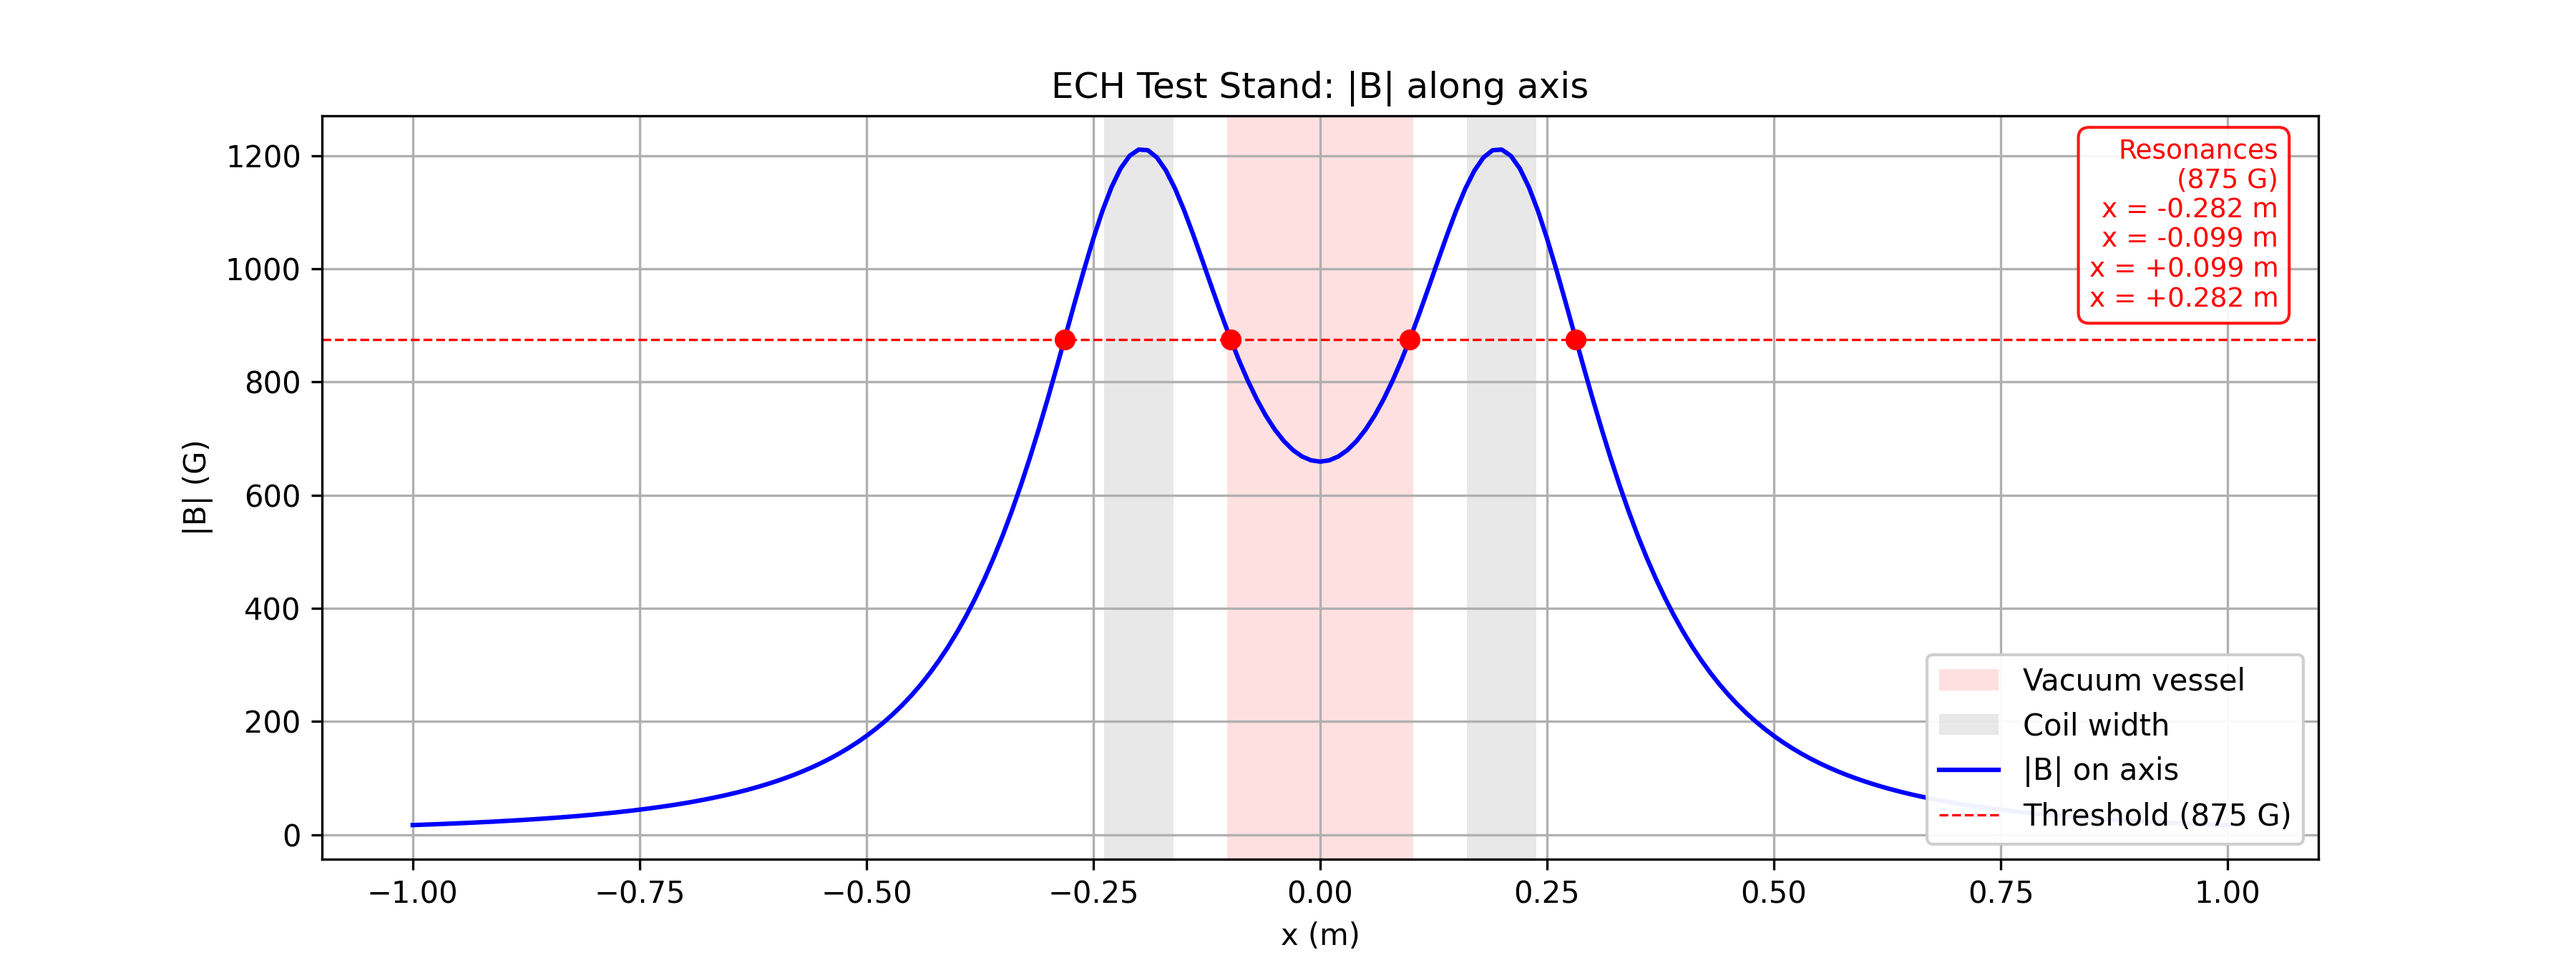
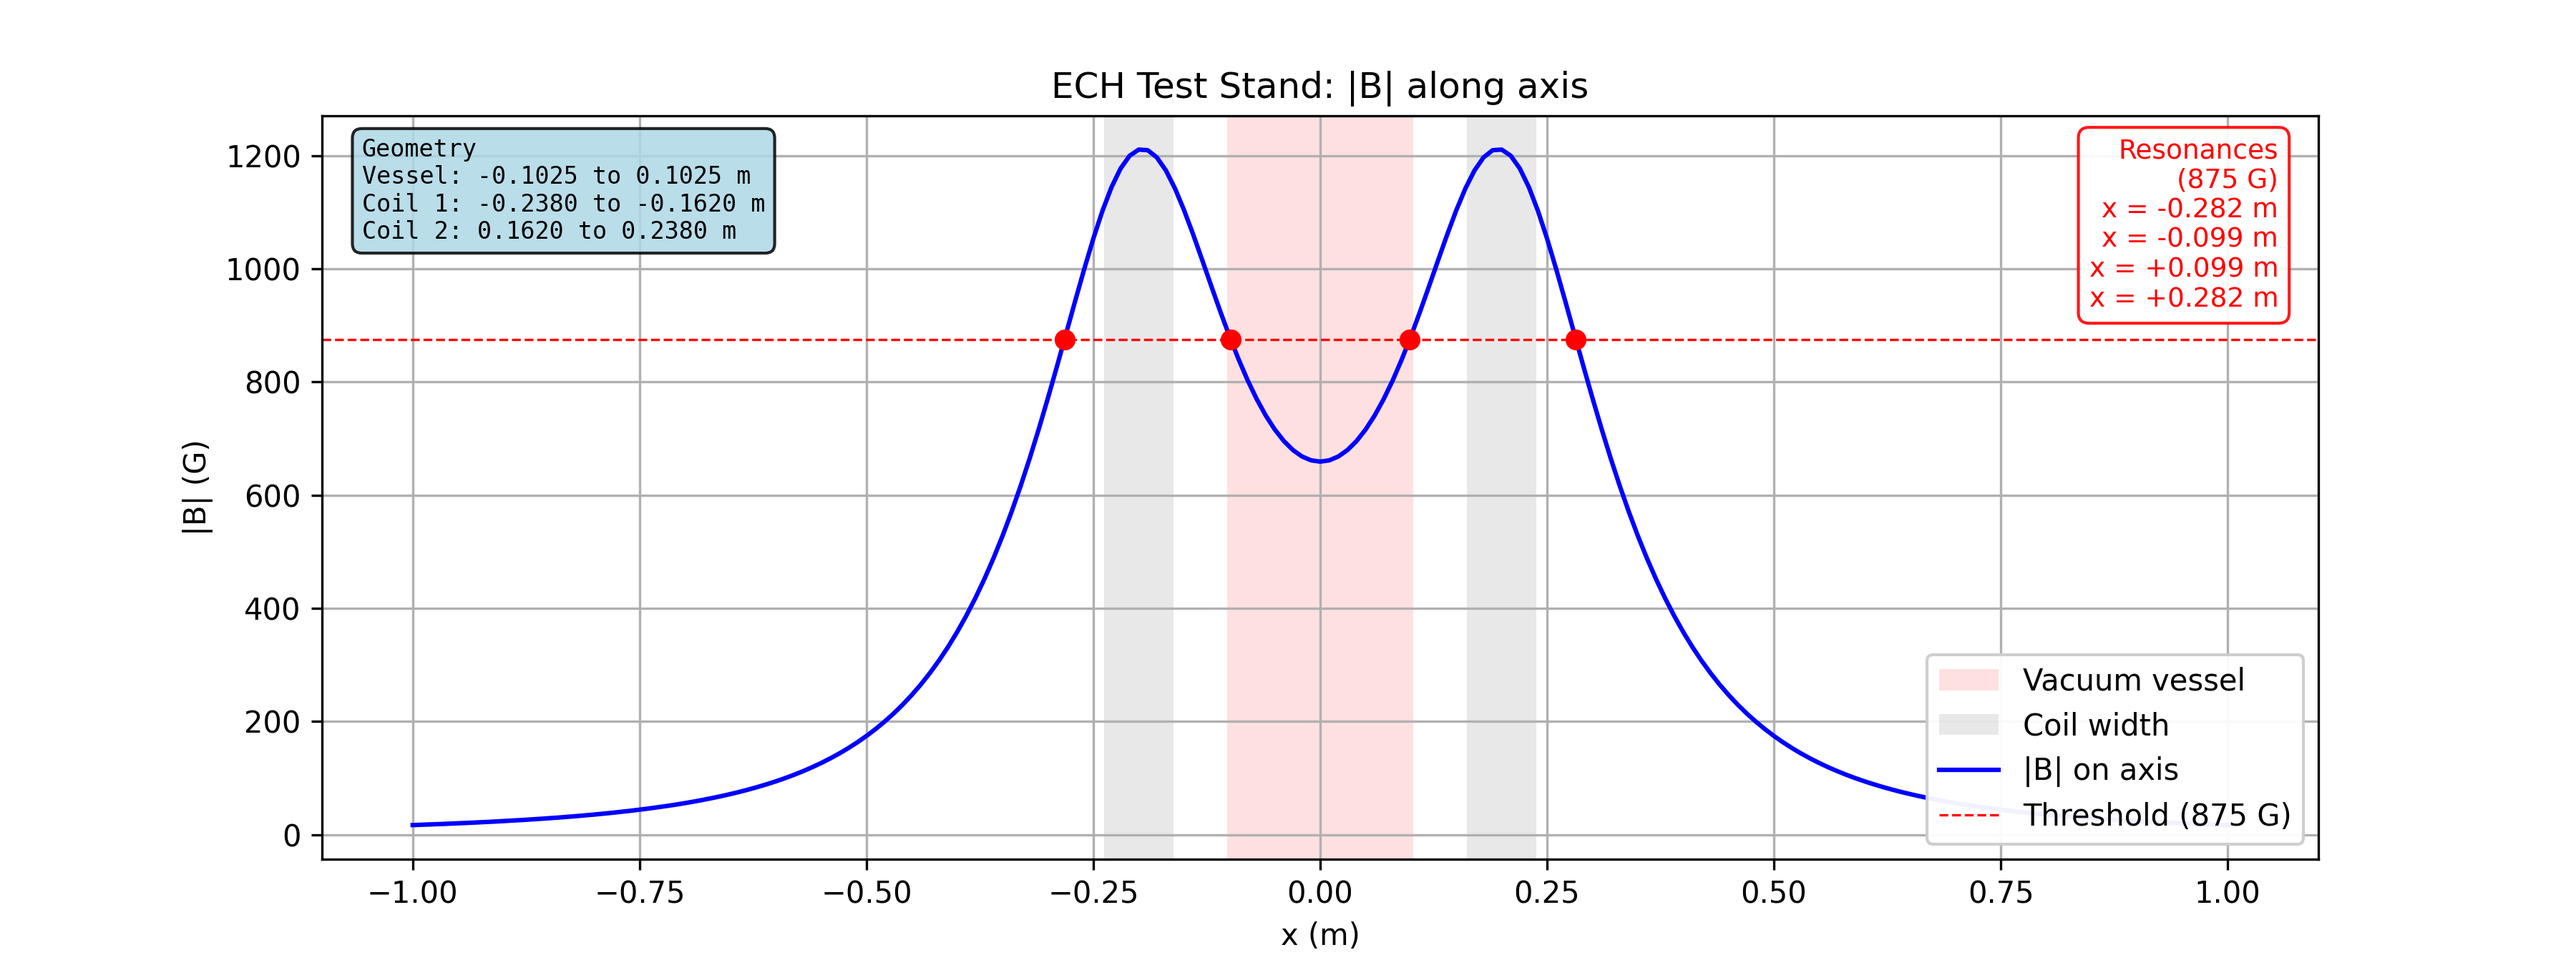
Added extra geometry information in ECH test stand graph

Changed region(s): [[0.1244, 0.1244, 0.3111, 0.28]]

diff --git a/ECH_test_stand.py b/ECH_test_stand.py
@@ -106,4 +106,33 @@ ax.set_ylabel("|B| (G)")
 ax.set_title("ECH Test Stand: |B| along axis")
 ax.grid()
 ax.legend(loc="lower right", framealpha=0.95)
+
+# Add informational box for vessel and magnet positions
+vessel_left = VESSEL_CENTER_X - VESSEL_WIDTH / 2
+vessel_right = VESSEL_CENTER_X + VESSEL_WIDTH / 2
+info_lines = [
+    "Geometry",
+    f"Vessel: {vessel_left:.4f} to {vessel_right:.4f} m",
+]
+for i, coil in enumerate(coils):
+    coil_left = coil.Xc - COIL_WIDTH / 2
+    coil_right = coil.Xc + COIL_WIDTH / 2
+    info_lines.append(f"Coil {i+1}: {coil_left:.4f} to {coil_right:.4f} m")
+
+info_text = "\n".join(info_lines)
+info_props = dict(
+    boxstyle="round,pad=0.4", facecolor="lightblue", edgecolor="black", alpha=0.85
+)
+ax.text(
+    0.02,
+    0.97,
+    info_text,
+    transform=ax.transAxes,
+    fontsize=8,
+    verticalalignment="top",
+    horizontalalignment="left",
+    bbox=info_props,
+    family="monospace",
+)
+
 fig.savefig("generated/plots/ECH_test_stand_axis.png", dpi=300)
